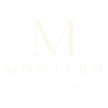
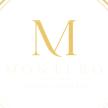
Главная по макету: золото в подписи, рамке, кнопке и шапке, тёплый фон, перегородки у иконок, золотая M в знаке

Changed region(s): [[0.2778, 0.1667, 0.7222, 0.5278], [0.8889, 0.0, 1.0, 0.1111], [0.0, 0.0, 0.1111, 0.1111]]

diff --git a/index.html b/index.html
@@ -8,7 +8,7 @@
 <link rel="preconnect" href="https://fonts.googleapis.com">
 <link rel="preconnect" href="https://fonts.gstatic.com" crossorigin>
 <link rel="stylesheet" href="https://fonts.googleapis.com/css2?family=Libertinus+Serif:ital,wght@0,400;0,600;0,700;1,400&family=Cormorant+Garamond:ital,wght@0,300;0,400;0,500;0,600;1,300;1,400&family=Cinzel:wght@400;500;600&family=Barlow:wght@300;400;500;600&family=Commissioner:wght@300;400;500;600&display=swap">
-<link rel="stylesheet" href="assets/css/style.css?v=7c623bf6">
+<link rel="stylesheet" href="assets/css/style.css?v=12f6b6a5">
 </head>
 <body>
 
@@ -18,8 +18,8 @@
 <header class="nav" id="nav">
   <div class="nav-in">
     <a class="brand" href="#home" data-scroll aria-label="На главную" data-i18n-aria="aria.home">
-      <img class="brand-mark" src="assets/img/mark-128.png?v=9c0a6967"
-           srcset="assets/img/mark-72.png?v=25ee3d49 72w, assets/img/mark-88.png?v=b8b0f70f 88w, assets/img/mark-108.png?v=e988b9f1 108w, assets/img/mark-128.png?v=9c0a6967 128w, assets/img/mark-144.png?v=d36ac99c 144w, assets/img/mark-160.png?v=15d83643 160w, assets/img/mark-200.png?v=7cf9eccc 200w, assets/img/mark-260.png?v=e5858c1a 260w, assets/img/mark-360.png?v=57e13191 360w"
+      <img class="brand-mark" src="assets/img/mark-128.png?v=9cc3e350"
+           srcset="assets/img/mark-72.png?v=7eb68a45 72w, assets/img/mark-88.png?v=e411ed14 88w, assets/img/mark-108.png?v=9b038e77 108w, assets/img/mark-128.png?v=9cc3e350 128w, assets/img/mark-144.png?v=fd5eaf6e 144w, assets/img/mark-160.png?v=9f68d33b 160w, assets/img/mark-200.png?v=2bc2275a 200w, assets/img/mark-260.png?v=de2b7351 260w, assets/img/mark-360.png?v=8128c768 360w"
            sizes="(max-width:540px) 60px, 72px"
            alt="Montero Private Concierge" width="512" height="512" decoding="async">
     </a>
@@ -790,8 +790,8 @@
         <p data-i18n="conc.p3">Конфиденциально. Персонально. Без лишних звонков, переписок и потери времени.</p>
         <p class="conc-start" data-i18n-html="conc.p4"><b>Всё начинается с одного сообщения.</b><br>Расскажите, что вам нужно. Даже если вы пока не знаете, кто именно может решить ваш вопрос, — это уже наша задача.</p>
         <div class="conc-sig">
-          <img class="seal-lg" src="assets/img/seal-160.png?v=15d83643"
-           srcset="assets/img/seal-88.png?v=b8b0f70f 88w, assets/img/seal-120.png?v=4bfba790 120w, assets/img/seal-160.png?v=15d83643 160w, assets/img/seal-200.png?v=7cf9eccc 200w, assets/img/seal-260.png?v=e5858c1a 260w, assets/img/seal-360.png?v=57e13191 360w, assets/img/seal-512.png?v=1f8c21e9 512w"
+          <img class="seal-lg" src="assets/img/seal-160.png?v=9f68d33b"
+           srcset="assets/img/seal-88.png?v=e411ed14 88w, assets/img/seal-120.png?v=57e8629f 120w, assets/img/seal-160.png?v=9f68d33b 160w, assets/img/seal-200.png?v=2bc2275a 200w, assets/img/seal-260.png?v=de2b7351 260w, assets/img/seal-360.png?v=8128c768 360w, assets/img/seal-512.png?v=c311cb21 512w"
            sizes="84px"
            alt="" width="512" height="512" decoding="async">
           <span class="conc-sig-t"><b data-i18n-html="conc.signName"><span class="sl">№1 консьерж-сервис от Северной</span> <span class="sl">до Южной Америки</span></b></span>
@@ -879,8 +879,8 @@
 <footer class="foot">
   <div class="shell foot-in">
     <div class="foot-brand">
-      <img class="seal" src="assets/img/seal-160.png?v=15d83643"
-           srcset="assets/img/seal-88.png?v=b8b0f70f 88w, assets/img/seal-120.png?v=4bfba790 120w, assets/img/seal-160.png?v=15d83643 160w, assets/img/seal-200.png?v=7cf9eccc 200w, assets/img/seal-260.png?v=e5858c1a 260w, assets/img/seal-360.png?v=57e13191 360w, assets/img/seal-512.png?v=1f8c21e9 512w"
+      <img class="seal" src="assets/img/seal-160.png?v=9f68d33b"
+           srcset="assets/img/seal-88.png?v=e411ed14 88w, assets/img/seal-120.png?v=57e8629f 120w, assets/img/seal-160.png?v=9f68d33b 160w, assets/img/seal-200.png?v=2bc2275a 200w, assets/img/seal-260.png?v=de2b7351 260w, assets/img/seal-360.png?v=8128c768 360w, assets/img/seal-512.png?v=c311cb21 512w"
            sizes="44px"
            alt="" width="512" height="512" decoding="async">
       <span data-i18n-html="foot.brand">Время <em>—</em> высшая форма роскоши, о которой мы позаботимся</span>
@@ -897,8 +897,8 @@
 <!-- ════════ ВЫБОР ЯЗЫКА ════════ -->
 <div class="lang-gate" id="langGate" role="dialog" aria-modal="true" aria-labelledby="langTitle" hidden>
   <div class="lang-in">
-    <img class="lang-seal" src="assets/img/seal-160.png?v=15d83643"
-           srcset="assets/img/seal-88.png?v=b8b0f70f 88w, assets/img/seal-120.png?v=4bfba790 120w, assets/img/seal-160.png?v=15d83643 160w, assets/img/seal-200.png?v=7cf9eccc 200w, assets/img/seal-260.png?v=e5858c1a 260w, assets/img/seal-360.png?v=57e13191 360w, assets/img/seal-512.png?v=1f8c21e9 512w"
+    <img class="lang-seal" src="assets/img/seal-160.png?v=9f68d33b"
+           srcset="assets/img/seal-88.png?v=e411ed14 88w, assets/img/seal-120.png?v=57e8629f 120w, assets/img/seal-160.png?v=9f68d33b 160w, assets/img/seal-200.png?v=2bc2275a 200w, assets/img/seal-260.png?v=de2b7351 260w, assets/img/seal-360.png?v=8128c768 360w, assets/img/seal-512.png?v=c311cb21 512w"
            sizes="62px"
            alt="" width="512" height="512" decoding="async">
     <h2 id="langTitle" data-i18n="lang.title">Выберите язык</h2>

diff --git a/assets/css/style.css b/assets/css/style.css
@@ -2118,3 +2118,67 @@ h4{ font-size:clamp(19px,2vw,24px); letter-spacing:0; }
   .lp-one-txt{ font-size:min(.68vw, 1.4svh, 12px); }
   .lp-foot-claim em{ margin-top:3px; }
 }
+
+
+/* ══════════ ГЛАВНАЯ ПО МАКЕТУ ══════════
+   Золото возвращено туда, где оно стоит на макете: подпись под именем
+   и линии по её бокам, рамка заявления с точкой, подсветка кнопки,
+   рамки в шапке, перегородки между иконками и рамка «Один номер».  */
+
+/* Тёплая подложка вместо чистого чёрного — как на макете. */
+.hero-bg{
+  background:
+    radial-gradient(ellipse 80% 60% at 50% 0%, rgba(58,38,20,.34), transparent 62%),
+    radial-gradient(ellipse 60% 50% at 92% 96%, rgba(52,30,14,.28), transparent 66%),
+    #050403;
+}
+.lp{ background:
+  radial-gradient(ellipse 70% 90% at 6% 50%, rgba(46,30,16,.30), transparent 64%),
+  radial-gradient(ellipse 60% 80% at 96% 60%, rgba(46,30,16,.26), transparent 66%),
+  #050403; }
+
+/* Первый экран: золотая подпись, линии, рамка и точка. */
+.hero-in .lockup{ --lk-line:rgba(214,172,96,.55); }
+.hero-in .lk-sub em{ color:var(--amber); }
+.hero-in .lk-dot{ background:var(--amber); }
+.hero-in .lk-claim{ border-color:rgba(214,172,96,.55); }
+.hero-in .lk-claim b{ color:#F4EFE4; }
+
+/* Кнопка первого экрана: золотая подсветка снизу, как на макете. */
+.hero-act .btn::after{
+  background:linear-gradient(90deg,
+    transparent 0%, rgba(232,197,106,.5) 14%,
+    #E8C56A 36%, #E8C56A 64%,
+    rgba(232,197,106,.5) 86%, transparent 100%);
+  box-shadow:
+    0 0 4px rgba(232,197,106,.9),
+    0 0 14px rgba(232,197,106,.6),
+    0 0 30px rgba(232,197,106,.3);
+}
+.hero-act .btn:hover::after{
+  box-shadow:
+    0 0 5px rgba(240,214,150,1),
+    0 0 20px rgba(232,197,106,.85),
+    0 0 44px rgba(232,197,106,.5);
+}
+
+/* Шапка: обе кнопки в золотой рамке. */
+.nav-right > .lang-btn,
+.nav-right > .btn{
+  border-color:rgba(214,172,96,.45);
+  color:#EDE6D8;
+}
+.nav-right > .lang-btn:hover,
+.nav-right > .btn:hover{ border-color:var(--amber); color:#FFFFFF; }
+
+/* Витрина: перегородки между иконками и золотая рамка «Один номер». */
+.lp-icons li + li{ border-left:1px solid rgba(214,172,96,.22); }
+.lp-icons li{ padding-inline:clamp(6px,.8vw,14px); }
+.lp-one{ border-color:rgba(214,172,96,.34); }
+.lp-one-btn{ border-color:rgba(214,172,96,.55); color:#EDE6D8; }
+.lp-one-btn:hover{ border-color:var(--amber); color:#FFFFFF; }
+.lp-foot-cta{ border-bottom-color:rgba(214,172,96,.5); }
+.lp-foot-cta:hover{ border-bottom-color:var(--amber); }
+.lp-list li{ border-bottom-color:rgba(214,172,96,.14); }
+.lp-band{ border-bottom-color:rgba(214,172,96,.18); }
+.lp-foot{ border-top-color:rgba(214,172,96,.18); }
